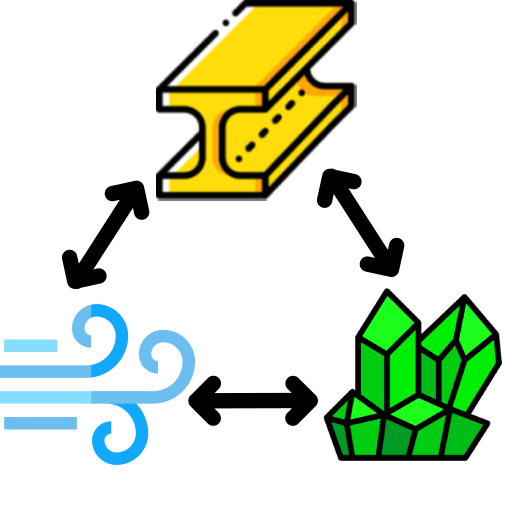
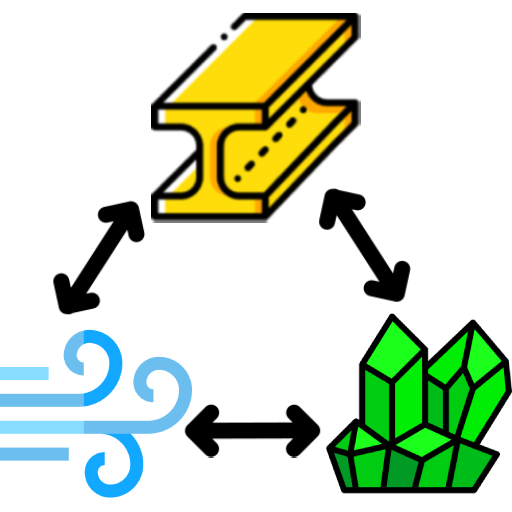
Final

diff --git a/src/components/common/AtomeqRadioInput.vue b/src/components/common/AtomeqRadioInput.vue
@@ -41,7 +41,7 @@ watch(
   display: inline-flex;
   justify-content: center;
   align-items: center;
-  width: 50px;
+  width: 60px;
   height: 50px;
   border-radius: 8px;
   position: relative;
@@ -80,16 +80,12 @@ watch(
 }
 
 .link-icon {
-  width: 28px;
-  height: 28px;
+  width: 32px;
+  height: 32px;
   display: block;
   flex-shrink: 0;
   left: 18px;
   position: absolute;
-  svg {
-    width: 28px;
-    height: 28px;
-  }
 }
 
 .link-title {

diff --git a/src/components/SwitchDisplay.vue b/src/components/SwitchDisplay.vue
@@ -2,7 +2,6 @@
 import { withDefaults } from 'vue';
 import { Display } from '@/types/atomeq-table.ts';
 import AtomeqRadioInput from '@/components/common/AtomeqRadioInput.vue';
-import { Ban } from 'lucide-vue-next';
 
 withDefaults(
   defineProps<{
